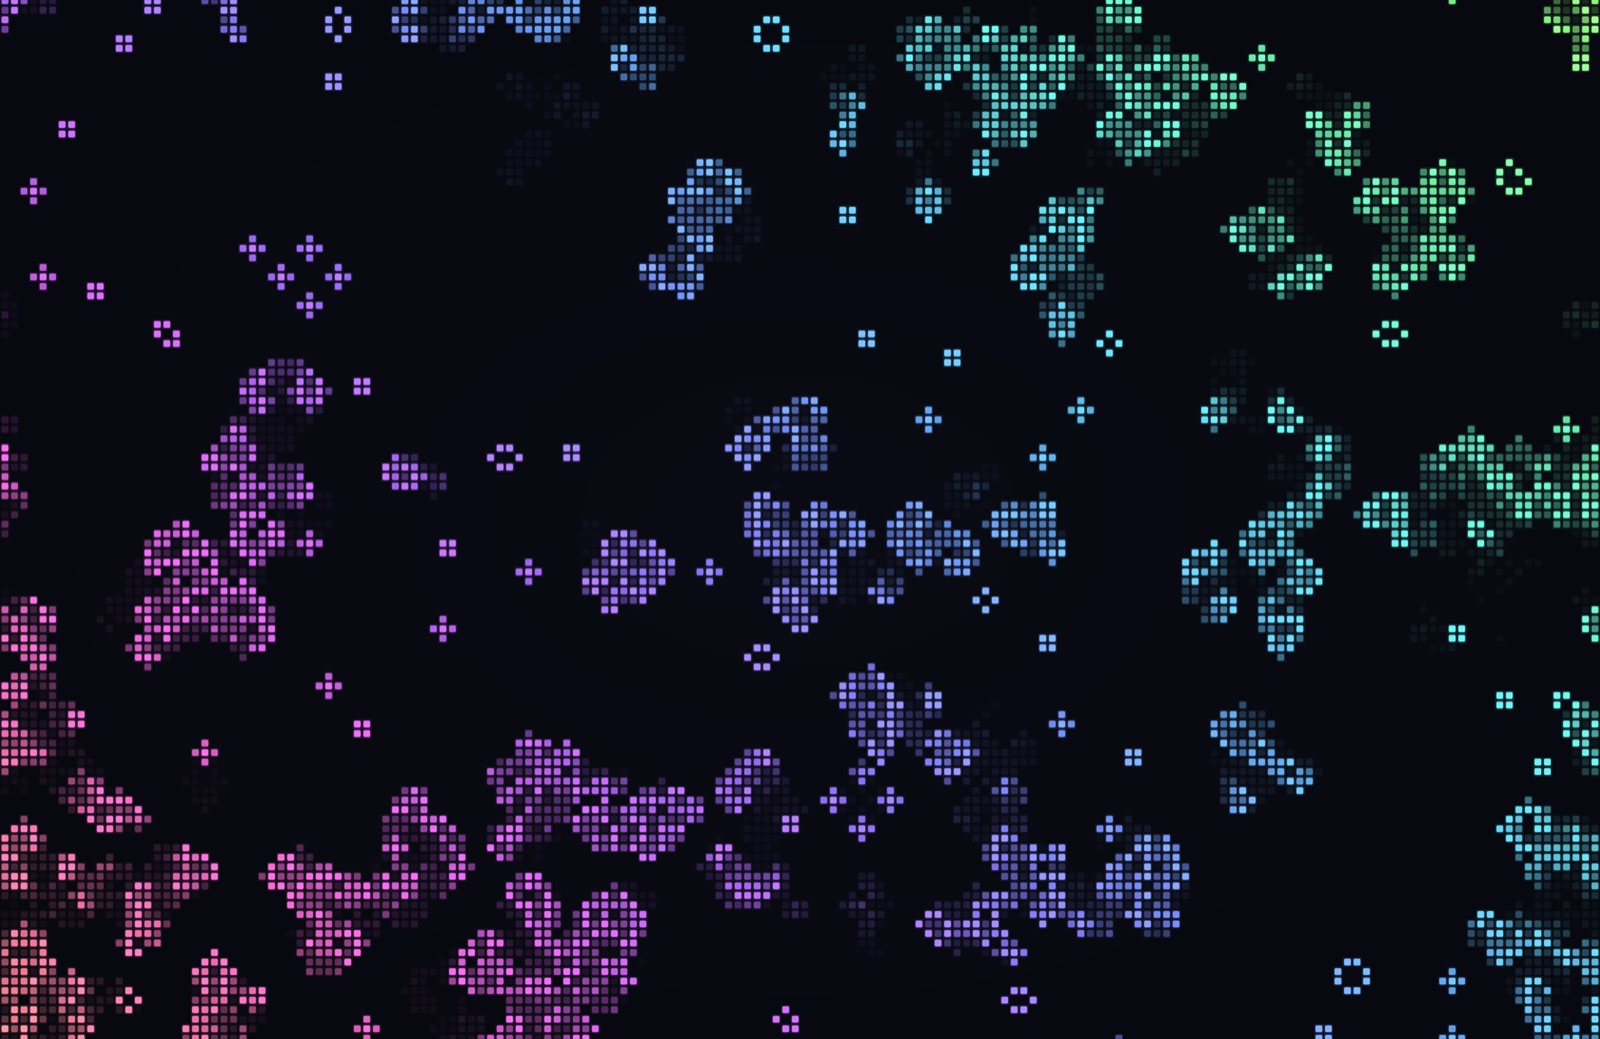
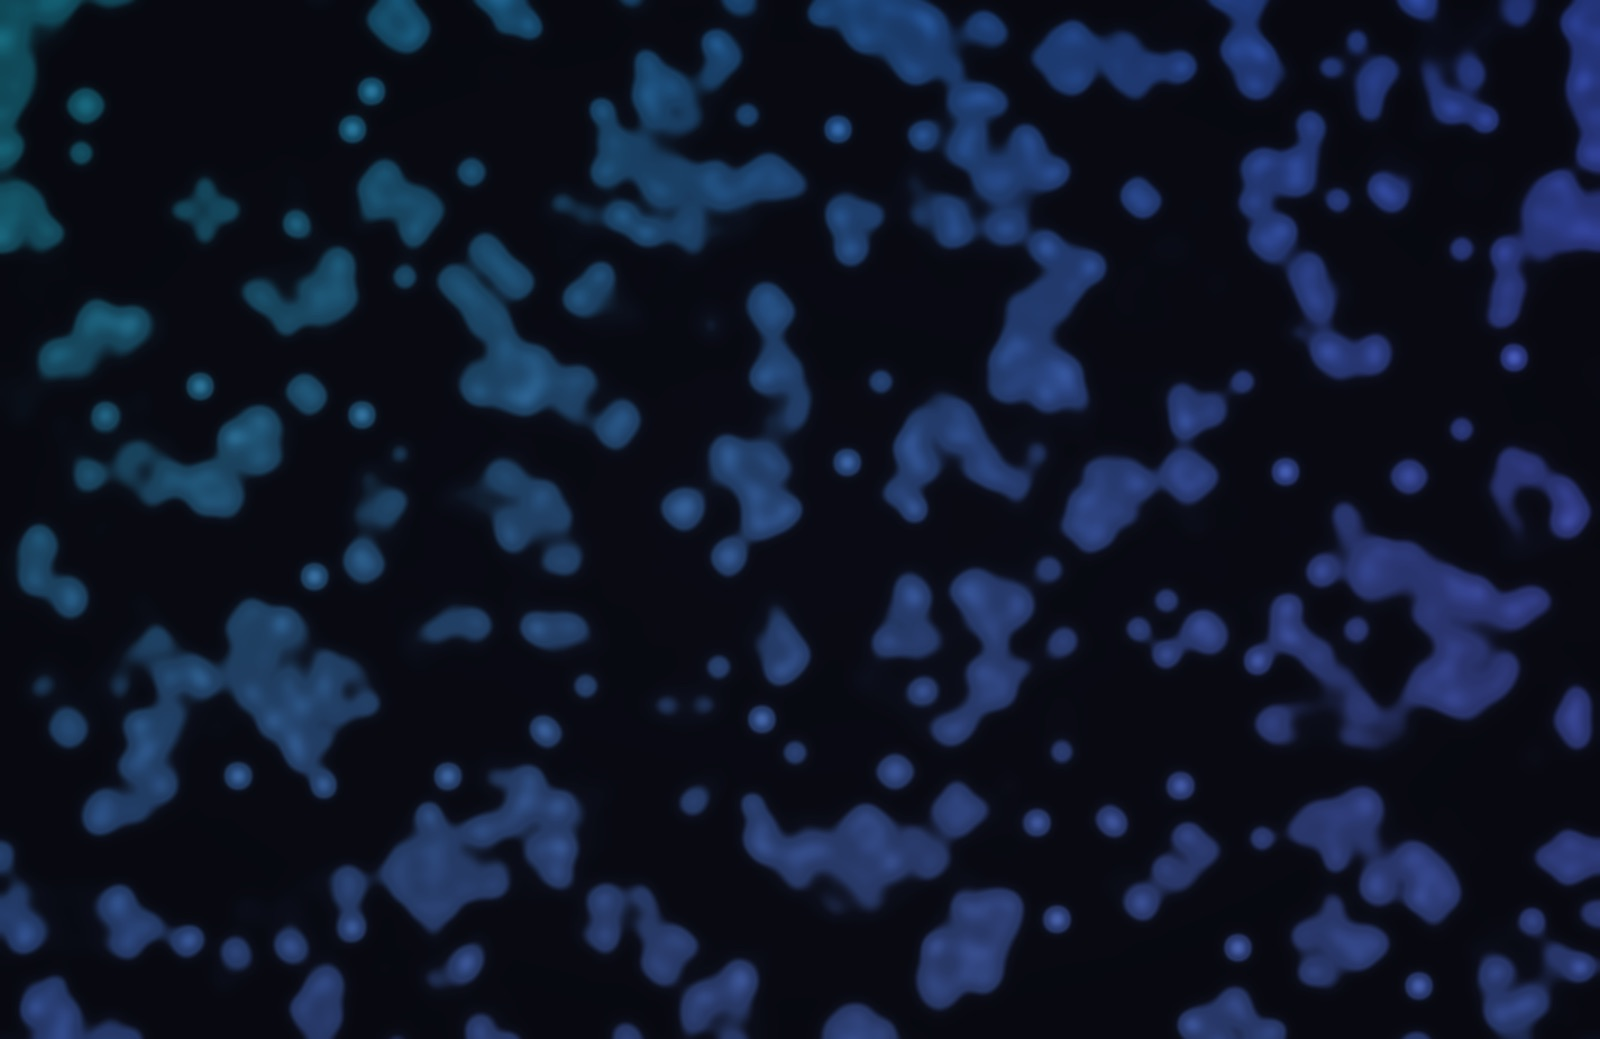
Game of Life: add a Calm look, a slow long exposure melted into soft blobs, switchable against Classic
Classic's 7 generations a second made blinkers flash all over the screen. Calm runs
1.5 a second and shows each cell's average over 3 seconds, so still lifes and
blinkers hold a steady glow and only real movement shows, in one family of jewel
blues. Settings has the Calm switch plus speed, exposure and softness.

diff --git a/Sources/Atrium/GameOfLife.swift b/Sources/Atrium/GameOfLife.swift
@@ -4,13 +4,24 @@ import SpriteKit
 
 /// Conway's Life on a wrap-around board, drawn as soft rounded cells whose colour drifts across the screen.
 /// Dead cells fade out over a second or two. When the board settles into still lifes and blinkers, fresh soup is dropped in.
+/// The Calm look runs slower and shows a long exposure of the board: each cell's average over a few seconds, so
+/// blinkers and still lifes hold a steady glow and only real movement shows, melted into soft blobs.
 final class GameOfLife: SKScene {
+    nonisolated static let knobs = [
+        Knob(key: "life.calm", label: "Calm", range: 0...1, standard: 1, section: "Look", format: .toggle),
+        Knob(key: "life.speed", label: "Generations a second", range: 0.5...4, standard: 1.5, section: "Look", shownWhen: "life.calm"),
+        Knob(key: "life.exposure", label: "Exposure (seconds)", range: 0...6, standard: 3, section: "Look", shownWhen: "life.calm"),
+        Knob(key: "life.softness", label: "Softness", range: 0...1, standard: 1, section: "Look", shownWhen: "life.calm"),
+    ]
+
     private let cellSize: CGFloat = 9
-    private let stepInterval: TimeInterval = 0.14
+    private let classicInterval: TimeInterval = 0.14
     private var cols = 0, rows = 0
     private var cells: [UInt8] = [] // 1 alive, 0 dead
     private var next: [UInt8] = []
     private var pixels: [UInt8] = [] // RGBA; red is each cell's glow, which eases up while alive and fades after death
+    private var exposed: [Float] = [] // Calm: each cell's average state over the last few seconds
+    private let calm = SKUniform(name: "u_calm", float: 1), softness = SKUniform(name: "u_soft", float: 1)
     private var texture: SKMutableTexture!
     private var lastTime: TimeInterval?
     private var sinceStep: TimeInterval = 0
@@ -23,26 +34,29 @@ final class GameOfLife: SKScene {
         cells = (0..<cols * rows).map { _ in Double.random(in: 0..<1) < 0.28 ? 1 : 0 }
         next = cells
         pixels = cells.flatMap { [$0 * 255, 0, 0, 255] }
+        exposed = cells.map(Float.init)
 
         texture = SKMutableTexture(size: CGSize(width: cols, height: rows))
-        texture.filteringMode = .nearest
+        texture.filteringMode = .linear // Classic samples cell centres, which come out exact; Calm blends between them
         let board = SKSpriteNode(texture: texture, size: CGSize(width: CGFloat(cols) * cellSize, height: CGFloat(rows) * cellSize))
         board.position = CGPoint(x: size.width / 2, y: size.height / 2)
         board.shader = SKShader(source: Self.cellShader, uniforms: [
-            SKUniform(name: "u_grid", vectorFloat2: [Float(cols), Float(rows)]), WallpaperTime.now,
+            SKUniform(name: "u_grid", vectorFloat2: [Float(cols), Float(rows)]), WallpaperTime.now, calm, softness,
         ])
         addChild(board)
         upload()
     }
 
     override func update(_ currentTime: TimeInterval) {
-        let dt = frameTime(currentTime, &lastTime)
+        let dt = frameTime(currentTime, &lastTime), isCalm = Self.knobs[0].value > 0.5
+        calm.floatValue = isCalm ? 1 : 0
+        softness.floatValue = Float(Self.knobs[3].value)
         sinceStep += dt
-        if sinceStep >= stepInterval {
+        if sinceStep >= (isCalm ? 1 / Self.knobs[1].value : classicInterval) {
             sinceStep = 0
             step()
         }
-        upload(dt)
+        if isCalm { expose(dt) } else { upload(dt) }
     }
 
     /// One generation, wrapping at the edges. Counts changed cells to spot a board that has gone quiet.
@@ -98,17 +112,50 @@ final class GameOfLife: SKScene {
                 }
             }
         }
+        send()
+    }
+
+    /// Calm: eases each cell's average toward its state over the exposure time, into red, and a 3×3 blur of that into
+    /// green, which the shader melts into blobs.
+    private func expose(_ dt: TimeInterval) {
+        let exposure = Self.knobs[2].value, cols = cols, rows = rows
+        let k = Float(exposure > 0.01 ? 1 - exp(-dt / exposure) : 1)
+        cells.withUnsafeBufferPointer { cells in
+            exposed.withUnsafeMutableBufferPointer { seen in
+                pixels.withUnsafeMutableBufferPointer { pixels in
+                    for i in 0..<cells.count {
+                        seen[i] += (Float(cells[i]) - seen[i]) * k
+                        pixels[i * 4] = UInt8(seen[i] * 255)
+                    }
+                    for y in 0..<rows {
+                        let up = (y + rows - 1) % rows * cols, mid = y * cols, down = (y + 1) % rows * cols
+                        for x in 0..<cols {
+                            let l = x == 0 ? cols - 1 : x - 1, r = x == cols - 1 ? 0 : x + 1
+                            let sum = (seen[up + l] + seen[up + r] + seen[down + l] + seen[down + r]) * 0.5
+                                + seen[up + x] + seen[down + x] + seen[mid + l] + seen[mid + r] + seen[mid + x] * 2
+                            pixels[(mid + x) * 4 + 1] = UInt8(min(sum / 8 * 255, 255))
+                        }
+                    }
+                }
+            }
+        }
+        send()
+    }
+
+    private func send() {
         let bytes = pixels
         texture.modifyPixelData { data, length in
             bytes.withUnsafeBytes { data?.copyMemory(from: $0.baseAddress!, byteCount: min(length, $0.count)) }
         }
     }
 
-    /// Samples each cell's glow at its centre and draws a rounded square with a soft halo, in a slowly drifting palette.
+    /// Classic samples each cell's glow at its centre and draws a rounded square with a soft halo, in a slowly
+    /// drifting rainbow. Calm draws the exposure the same way, blended by `u_soft` into blobs of the blurred exposure
+    /// (smoothly interpolated between cells, so no grid shows), dimmer and in one family of jewel tones.
     private static let cellShader = """
         void main() {
             vec2 g = v_tex_coord * u_grid;
-            float glow = texture2D(u_texture, (floor(g) + 0.5) / u_grid).r;
+            vec4 cell = texture2D(u_texture, (floor(g) + 0.5) / u_grid);
 
             vec2 f = abs(fract(g) - 0.5);
             float d = length(max(f - 0.2, 0.0)) - 0.16;
@@ -116,12 +163,31 @@ final class GameOfLife: SKScene {
             float halo = smoothstep(0.5, -0.1, d) * 0.18;
 
             vec2 uv = v_tex_coord;
-            vec3 hue = 0.5 + 0.5 * cos(6.2831 * (vec3(0.0, 0.33, 0.67) + uv.x * 0.45 + uv.y * 0.25 + u_now * 0.01));
-            vec3 pastel = mix(hue, vec3(1.0), 0.35);
-
             vec3 bg = vec3(0.035, 0.04, 0.075) * (1.0 - 0.35 * length(uv - 0.5));
-            float lit = pow(glow, 1.4);
-            vec3 c = bg + pastel * lit * (body * 0.95 + halo);
+            vec3 c;
+            if (u_calm < 0.5) {
+                vec3 hue = 0.5 + 0.5 * cos(6.2831 * (vec3(0.0, 0.33, 0.67) + uv.x * 0.45 + uv.y * 0.25 + u_now * 0.01));
+                vec3 pastel = mix(hue, vec3(1.0), 0.35);
+                c = bg + pastel * pow(cell.r, 1.4) * (body * 0.95 + halo);
+            } else {
+                // cubic B-spline between cells, in four linear taps (GPU Gems 2, ch. 20), so no grid shows
+                vec2 p = g - 0.5, i = floor(p), s = p - i;
+                vec2 w0 = (1.0 - s) * (1.0 - s) * (1.0 - s) / 6.0, w3 = s * s * s / 6.0;
+                vec2 w1 = (4.0 - 6.0 * s * s + 3.0 * s * s * s) / 6.0, w2 = 1.0 - w0 - w1 - w3;
+                vec2 g0 = w0 + w1, g1 = w2 + w3;
+                vec2 h0 = (i - 0.5 + w1 / g0) / u_grid, h1 = (i + 1.5 + w3 / g1) / u_grid;
+                float v = g0.y * (g0.x * texture2D(u_texture, h0).g + g1.x * texture2D(u_texture, vec2(h1.x, h0.y)).g)
+                        + g1.y * (g0.x * texture2D(u_texture, vec2(h0.x, h1.y)).g + g1.x * texture2D(u_texture, h1).g);
+                float blob = smoothstep(0.16, 0.3, v) * (0.5 + 0.5 * smoothstep(0.3, 0.6, v)) + smoothstep(0.0, 0.3, v) * 0.12;
+                float lit = mix(pow(cell.r, 1.4) * (body * 0.9 + halo), blob, u_soft);
+
+                float t = u_now * 0.012;
+                float a = 0.5 + 0.5 * sin(uv.x * 2.3 + uv.y * 1.6 + t);
+                float b = 0.5 + 0.5 * sin(uv.y * 2.0 - uv.x * 1.4 + t * 0.8 + 2.0);
+                vec3 jewel = mix(mix(vec3(0.12, 0.40, 0.90), vec3(0.06, 0.58, 0.62), a), vec3(0.46, 0.28, 0.86), b * 0.55);
+                vec3 core = mix(jewel, vec3(0.75, 0.88, 1.0), 0.4 * smoothstep(0.4, 0.8, v));
+                c = bg + core * lit * 0.72;
+            }
             gl_FragColor = vec4(c, 1.0);
         }
         """

diff --git a/Sources/Atrium/Scenes.swift b/Sources/Atrium/Scenes.swift
@@ -58,7 +58,7 @@ struct Wallpaper {
     Wallpaper(name: "Campfire", icon: "flame.fill", tint: .red, blurb: "A campfire in a forest clearing, under the real stars.",
               make: campfire),
     Wallpaper(name: "Game of Life", icon: "square.grid.3x3.fill", tint: .orange, blurb: "Conway's cells that never die out.",
-              make: gameOfLife),
+              make: gameOfLife, knobs: GameOfLife.knobs),
 ]
 
 /// Seconds for shaders to animate by, as `u_now`, in place of SpriteKit's `u_time`. `u_time` counts from app launch

diff --git a/docs/game-of-life.md b/docs/game-of-life.md
@@ -1,33 +1,43 @@
 # Game of Life
 
-Conway's Game of Life on a board that wraps at the edges, drawn as soft rounded cells glowing in pastel colours that drift across the screen and slowly shift. Births bloom in, deaths leave a fading trail, and when the board stalls, fresh patches of random cells are dropped in, so it never dies out.
+Conway's Game of Life on a board that wraps at the edges. When the board stalls, fresh patches of random cells are dropped in, so it never dies out. It has two looks, switched by Settings → Calm:
+
+- **Calm** (the default): 1.5 generations a second, shown as a long exposure. Each cell glows by its average over the last 3 seconds, melted into soft liquid blobs in one family of jewel blues. Still lifes and blinkers hold a steady glow, and only real movement shows, as slow drifts.
+- **Classic:** the first look. 7 generations a second, crisp rounded cells in pastel colours that drift across the screen. Births bloom in and deaths leave a fading trail.
 
 - **Files:** `Sources/Atrium/GameOfLife.swift` holds the `GameOfLife` scene and its `cellShader`. `frameTime` comes from Fireflies.swift.
 - **Entry:** `@MainActor func gameOfLife(size:)`, which returns `final class GameOfLife: SKScene`. Registry entry: icon `square.grid.3x3.fill`, tint `.orange`.
 - **Kind:** a simulation on the CPU, feeding an `SKMutableTexture` with one texel per cell and nearest filtering. A shader on one full-screen sprite draws the cell shapes and colour.
 
 ## How it works
-1. **Board.**
+1. **Board** (both looks).
    - `cellSize` is 9 pt, which gives 168 × 110 cells at 1512×982 (rounded up; the board is centred and may overhang slightly).
    - It starts 28% alive.
    - `cells` and `next` are `[UInt8]` buffers that are swapped each generation.
 2. **Step (`step()`).**
-   - One generation every `stepInterval` of 0.14 s (about 7 per second), counted from `frameTime`.
+   - One generation every 1/`life.speed` s in Calm (1.5 a second), or every `classicInterval` of 0.14 s in Classic (about 7 a second), counted from `frameTime`.
    - Standard B3/S23 rules with wrap-around neighbours, run in unsafe buffers.
    - It counts how many cells changed.
 3. **Stall detection.**
    - `ponytail:` "quiet" means fewer than 0.3% of cells changed for 12 generations in a row.
    - This catches boards of still lifes and blinkers, which a detector looking for repeating states would miss.
    - When quiet, `seed()` drops three round patches of random cells (radius 9 cells, 40% alive) at random spots.
-4. **Glow (`upload()`, every frame).**
+4. **Classic glow (`upload()`, every frame).**
    - Each cell's glow sits in the red channel of an RGBA pixel buffer.
    - Alive cells ease toward 255 (`g += (255 − g) × 90/256`); dead cells decay (`g −= g × 16/256`) until they drop to 20 or below, then snap to 0.
    - The buffer is copied into the texture with `modifyPixelData`.
-5. **Shader (`cellShader`).**
-   - Samples the glow at each cell's centre, so cells stay crisp.
+5. **Calm exposure (`expose()`, every frame).**
+   - `exposed` holds each cell's average state as a Float, eased toward 0 or 1 by `1 − exp(−dt / exposure)`, so it's the same at any frame rate. 8 bits would stall: at 60 fps a 3 s exposure moves under one level a frame.
+   - Red gets the average; green gets a 3×3 blur of it (weights 1, 2, 1 ÷ 8, wrapping at the edges).
+   - Why it's calm: a blinker's arms are alive half the time, so they settle at half glow with a small, slow ripple instead of flashing 3.5 times a second. A glider slides about 3 pt a second, trailing a comet tail. A reseed fades in over a few seconds as a soft cloud instead of popping in as a blob.
+6. **Shader (`cellShader`).** `u_calm` picks the look; the texture filters linearly, so Classic's reads at cell centres are exact.
+   - Classic samples the glow at each cell's centre, so cells stay crisp.
    - Draws a rounded square (inset 0.2, radius 0.16) with a soft halo (0.18).
    - Colour comes from a cosine palette over x, y and `u_now × 0.01`, a full hue cycle every 100 s, mixed 35% toward white for pastels.
    - Glow is shaped by `pow(glow, 1.4)`, over a dark navy background with a vignette.
+   - Calm reads the blurred average through a cubic B-spline in four linear taps (GPU Gems 2, ch. 20). A smoothstep between cells left a visible grid of flat spots.
+   - It thresholds that into blobs with soft edges (`smoothstep(0.16, 0.3)`), brighter in fuller cores, plus a faint halo. With softness at 0 it draws Classic's rounded cells by the average instead.
+   - Colour mixes sapphire, teal and amethyst by two slow sines over position and `u_now`, lifted toward ice blue in the brightest cores, at 72% brightness.
 
 ## Time and appearance
 - The simulation runs on `frameTime`.
@@ -35,24 +45,26 @@ Conway's Game of Life on a board that wraps at the edges, drawn as soft rounded 
 - It's always dark, with no Light Mode look. Each load starts from a random board.
 
 ## Settings
-None yet. Suggested:
+All live, read each frame; nothing rebuilds. The last three only show while Calm is on.
 
 | Key | Label | Range | Default | Notes |
 |---|---|---|---|---|
-| `life.speed` | Generations per second | 2–20 | 7 | `stepInterval = 1 / value`; live |
-| `life.cellSize` | Cell size | 5–16 pt | 9 | resizes the board, so rebuild on change |
-| `life.trails` | Trails | 0–1 | 0.5 | scales the death decay (today 16/256 per frame) |
+| `life.calm` | Calm | switch | on | off is the Classic look, unchanged |
+| `life.speed` | Generations a second | 0.5–4 | 1.5 | |
+| `life.exposure` | Exposure (seconds) | 0–6 | 3 | the averaging time; 0 shows the live board |
+| `life.softness` | Softness | 0–1 | 1 | 0 is rounded cells, 1 is liquid blobs |
 
-A `life.palette` could offer Drift (today's rainbow), Mono (one hue), Warm and Cool, plus a Light Mode look with dark cells on paper, like Flowing Gradient's.
+Still to come: a cell size (it resizes the board, so it needs a rebuild), and palettes (Flowing Gradient's jewel families would fit) with a Light Mode look.
 
 ## Tuning constants
-- `cellSize` 9, `stepInterval` 0.14, initial density 0.28.
+- `cellSize` 9, `classicInterval` 0.14, initial density 0.28.
 - Stall rule: 0.3% for 12 generations. Reseed: 3 patches, radius 9, density 0.4.
 - Easing: births 90/256 and deaths 16/256 every 30th of a second (scaled by the frame time), floor 20.
 - Shader: inset 0.2, radius 0.16, halo 0.18, hue speed 0.01, pastel mix 0.35.
+- Calm: blob edge 0.16–0.3, core 0.3–0.6, halo 0.12, ice-blue lift 0.4 over 0.4–0.8, brightness 0.72, colour sines at 0.012 and 0.0096 rad/s.
 
 ## Performance
-Measured at CPU 0.47 ms and GPU 0.52 ms per frame (release build, 2x). CPU cost is the per-frame glow easing over about 18.5k cells, plus copying the 74 KB buffer (`let bytes = pixels` makes a copy every frame), plus a generation step 7 times a second. In debug it measured about 2.6 ms of CPU. There's comfortable headroom in release.
+Calm measured at CPU 0.55 ms and GPU 0.36 ms per frame (release build, 2x, 2026-09-26); the exposure and blur cost about as much as Classic's integer easing. Classic measured at CPU 0.47 ms and GPU 0.52 ms. CPU cost is the per-frame glow easing over about 18.5k cells, plus copying the 74 KB buffer (`let bytes = pixels` makes a copy every frame), plus a generation step 7 times a second. In debug it measured about 2.6 ms of CPU. There's comfortable headroom in release.
 
 ## Gotchas and shortcuts
 - **Whole-number glow:** a dying cell loses at least 1 of its 255 each frame, otherwise the smaller steps at 60 fps round to 0 and leave cells glowing forever.
@@ -61,12 +73,14 @@ Measured at CPU 0.47 ms and GPU 0.52 ms per frame (release build, 2x). CPU cost 
 
 ## Dave's feedback and decisions
 - Built by the nature agent in the first batch.
-- No specific feedback yet, and no fidelity pass.
+- 2026-09-26: "cool but so crazy on the eyes, its so busy and wild." The cause: 7 generations a second with births at full brightness in about 0.1 s, so blinkers all over the screen flash at 3.5 Hz and pull the eye. Calm was built as a switch to compare with Classic. Over 4 s of frames at 15 fps, Classic changes 1.41 grey levels per pixel per frame on average, with 2% of pixels jumping more than 20 levels. Calm changes 0.22, with none jumping. **Next:** Dave compares them live, then remove the loser (or keep both, if he wants the choice).
+- At the same time he asked for reaction–diffusion, which became its own wallpaper.
 
 ## Ideas / next steps
+- **Lock in** Calm or Classic once Dave has compared them.
 - **Better reseeds:** drop known patterns (gliders, lightweight spaceships, an R-pentomino, the occasional glider gun) instead of round blobs, so new life arrives with character.
 - **Looks:** a Light Mode look and palettes.
 - **Variation:** vary the rules between loads (HighLife B36/S23, Day & Night) for different textures.
 
 ## Checking it
-`SNAPSHOT_SCENE="Game of Life" SNAPSHOT_SECONDS=30 SNAPSHOT_DIR=/tmp/life swift test`. The simulation and glow advance with `SNAPSHOT_SECONDS`; the hue drift doesn't. Check around 30 s and 120 s to see that stall reseeding keeps the board alive.
+`SNAPSHOT_SCENE="Game of Life" SNAPSHOT_SECONDS=30 SNAPSHOT_DIR=/tmp/life swift test`, with `SNAPSHOT_DEFAULTS="life.calm=0"` for Classic. To measure busyness, add `SNAPSHOT_MOVIE=4` and compare consecutive frames. The simulation and glow advance with `SNAPSHOT_SECONDS`; the hue drift doesn't. Check around 30 s and 120 s to see that stall reseeding keeps the board alive.

diff --git a/docs/README.md b/docs/README.md
@@ -20,7 +20,7 @@ One file per wallpaper, recording what the code can't: how each scene works, why
 | Fireflies | [fireflies.md](fireflies.md) | `Fireflies.swift`, `Resources/fireflies-*` | photo ground, shaders, SpriteKit | density, fog, speed, wind | none | 0.54 / 0.52 |
 | Murmuration | [murmuration.md](murmuration.md) | `Murmuration.swift`, `Resources/murmuration-*` | StarDisplay flock in metres, physical sky, photo ground with reflecting water | light (or a whole evening), ground, falcon | none | 1.25–1.8 / 0.45–0.8 |
 | Campfire | [campfire.md](campfire.md) | `Campfire.swift`, `CampfireFlames.swift`, `Resources/campfire-*` | photo ground relit by the fire, fluid-sim flames, shaders | none | location (real stars) | 1.11 / 0.84 |
-| Game of Life | [game-of-life.md](game-of-life.md) | `GameOfLife.swift` | mutable texture | none yet | none | 0.47 / 0.52 |
+| Game of Life | [game-of-life.md](game-of-life.md) | `GameOfLife.swift` | mutable texture | Calm or Classic, speed, exposure, softness | none | 0.55 / 0.36 |
 
 \*Release build, 2x Retina at 1512×982 points, measured 2026-09-24 with `swift test -c release -Xswiftc -enable-testing`. The budget is about 2 ms each for CPU and GPU. Debug builds are pessimistic on CPU (Murmuration runs about 16–19 ms in debug).
 

diff --git a/README.md b/README.md
@@ -113,9 +113,11 @@ A campfire in a stone ring in a real forest clearing at night, its flames simula
 ![Campfire in a forest clearing at night](docs/images/campfire.jpg)
 
 ### Game of Life
-Conway's cells with fading trails, reseeding so it never dies out.
+Conway's cells, reseeding so they never die out. The Calm look shows a long exposure, so cells melt into soft glowing blobs that drift slowly; the Classic look is crisp, quick and colourful.
 
-![Game of Life](docs/images/game-of-life.jpg)
+| ![Game of Life, Calm](docs/images/game-of-life.jpg) | ![Game of Life, Classic](docs/images/game-of-life-classic.jpg) |
+|---|---|
+| Calm | Classic |
 
 ## How it works
 
